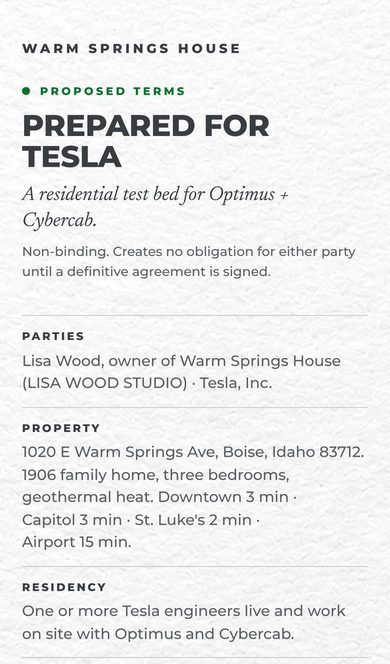
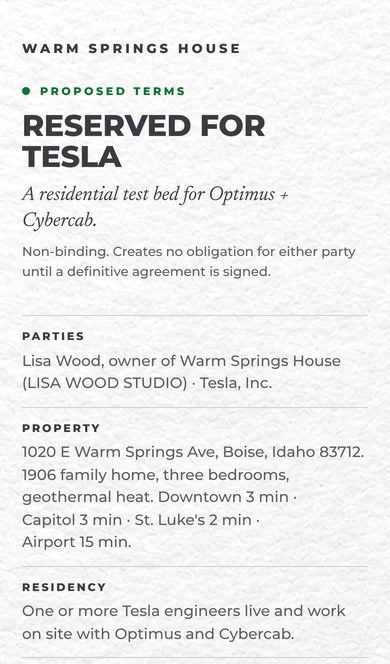
Send kit: walkthrough screens and DM section match the final email, DM and Reserved for Tesla
Claude-Session: https://claude.ai/code/session_018mjyHLtRipED1pdLKidqkG

Changed region(s): [[0.0923, 0.1506, 0.7077, 0.2108]]

diff --git a/send-kit/preview.html b/send-kit/preview.html
@@ -58,8 +58,8 @@ button.done{background:var(--ink);color:var(--paper);border-color:var(--ink)}
 .deck img{position:absolute;inset:0;width:100%;height:100%;object-fit:cover;object-position:top;animation:deck 12s infinite;opacity:0}
 .deck img:nth-child(2){animation-delay:3s}.deck img:nth-child(3){animation-delay:6s}.deck img:nth-child(4){animation-delay:9s}
 @keyframes deck{0%{opacity:0;transform:translateY(30%)}4%{opacity:1;transform:none}25%{opacity:1;transform:none}29%{opacity:0}100%{opacity:0}}
-.vid{height:100%;background:#000}
-.vid video{display:block;width:100%;height:100%;object-fit:cover}
+.phone .vid{height:100%;background:#000}
+.phone .vid video{display:block;width:100%;height:100%;object-fit:cover}
 .links{display:grid;gap:8px;background:var(--paper);border-radius:14px;box-shadow:var(--shadow);padding:16px 20px;font-size:14px}
 .links div{display:flex;flex-wrap:wrap;gap:4px 14px;justify-content:space-between}
 .links span{color:var(--muted)}
@@ -137,13 +137,13 @@ code{font-family:ui-monospace,Menlo,Consolas,monospace;font-size:13px;background
   <p class="note">Every screen below is the live site on a phone. Swipe sideways through each path.</p>
   <h3 class="jh">By email</h3>
   <ol class="journey" aria-label="The email path">
-      <li class="jstep"><figure class="phone"><div class="inbox"><div class="ibar">Inbox</div><div class="irow"><span class="idot"></span><div><div class="ifrom">Lisa Wood <span>9:02 AM</span></div><div class="isubj">[Subject]</div><div class="ipre">Hi [Name], I hope you're doing well…</div></div></div><div class="irow dim"><div><div class="ifrom">…</div><div class="isubj">&nbsp;</div></div></div></div></figure><div class="jcap"><span class="jn">1</span><b>It arrives</b><p>From Lisa Wood, lisa@lisawoodstudio.com. Your name, the subject and the first line are all they see before opening. No attachment, nothing hidden, no tracking.</p></div></li>
+      <li class="jstep"><figure class="phone"><div class="inbox"><div class="ibar">Inbox</div><div class="irow"><span class="idot"></span><div><div class="ifrom">Lisa Wood <span>9:02 AM</span></div><div class="isubj">An invitation for Optimus + Cybercab</div><div class="ipre">Hi [First name], I cannot overstate how excited I am…</div></div></div><div class="irow dim"><div><div class="ifrom">…</div><div class="isubj">&nbsp;</div></div></div></div></figure><div class="jcap"><span class="jn">1</span><b>It arrives</b><p>From Lisa Wood, lisa@lisawoodstudio.com. Your name, the subject and the first line are all they see before opening. No attachment, nothing hidden, no tracking.</p></div></li>
       <li class="jstep"><figure class="phone"><img src="preview-assets/j-email.jpg" width="390" height="664" alt="The email opened on a phone" loading="lazy"></figure><div class="jcap"><span class="jn">2</span><b>They open the email</b><p>A short note, then the card: the seal opens to Reserved for Tesla and loops (8 seconds). It plays inside the email.</p></div></li>
       <li class="jstep"><figure class="phone"><img src="preview-assets/j-drop.jpg" width="390" height="664" alt="Card 1 dropping in" loading="lazy"></figure><div class="jcap"><span class="jn">3</span><b>They tap the card</b><p>warmspringshouse.com/4tesla?card=1 opens. They have just watched the seal open, so the page skips it and Card 1 drops in.</p></div></li>
       <li class="jstep"><figure class="phone"><img src="preview-assets/j-card1.jpg" width="390" height="664" alt="Card 1 finished" loading="lazy"></figure><div class="jcap"><span class="jn">4</span><b>Card 1 plays</b><p>The house, Warm Springs House, then the words line by line. Full screen on a phone, a framed card on a computer.</p></div></li>
       <li class="jstep"><figure class="phone"><div class="deck"><img src="preview-assets/j-card2.jpg" width="390" height="693" alt="Card 2" loading="lazy"><img src="preview-assets/j-card3.jpg" width="390" height="693" alt="Card 3" loading="lazy"><img src="preview-assets/j-card4.jpg" width="390" height="693" alt="Card 4" loading="lazy"><img src="preview-assets/j-card5.jpg" width="390" height="693" alt="Card 5" loading="lazy"></div></figure><div class="jcap"><span class="jn">5</span><b>The cards move on by themselves</b><p>Each card plays once, holds long enough to read, then the next slides up over it, until they touch the screen. After that they swipe at their own pace.</p></div></li>
       <li class="jstep"><figure class="phone"><img src="preview-assets/j-card6.jpg" width="390" height="664" alt="Card 6, See It in Person" loading="lazy"></figure><div class="jcap"><span class="jn">6</span><b>Card 6: see it in person</b><p>Address, your phone, email and site, all tappable. Presented by Lisa Wood Studio links to your studio.</p></div></li>
-      <li class="jstep"><figure class="phone"><img src="preview-assets/j-terms.jpg" width="390" height="664" alt="The terms page" loading="lazy"></figure><div class="jcap"><span class="jn">7</span><b>The terms, if linked</b><p>A one-page web page at warmspringshouse.com/4tesla/terms, reached only from a link in your message. Out of search engines.</p></div></li>
+      <li class="jstep"><figure class="phone"><img src="preview-assets/j-terms.jpg" width="390" height="664" alt="The terms page" loading="lazy"></figure><div class="jcap"><span class="jn">7</span><b>The terms, only if you send them</b><p>Not linked in the email or the DMs. A one-page web page at warmspringshouse.com/4tesla/terms, ready if anyone asks. Out of search engines.</p></div></li>
   </ol>
   <h3 class="jh">By X or Instagram message</h3>
   <ol class="journey" aria-label="The message path">
@@ -164,7 +164,7 @@ code{font-family:ui-monospace,Menlo,Consolas,monospace;font-size:13px;background
   <article class="mail">
     <dl class="mhead">
       <dt>From</dt><dd>Lisa Wood &lt;lisa@lisawoodstudio.com&gt;</dd>
-      <dt>To</dt><dd>[Name]</dd>
+      <dt>To</dt><dd>[First name]</dd>
       <dt>Subject</dt><dd class="subj" id="subj">An invitation for Optimus + Cybercab</dd>
     </dl>
     <div class="mbody">
@@ -186,10 +186,10 @@ code{font-family:ui-monospace,Menlo,Consolas,monospace;font-size:13px;background
 
 <section class="sec" aria-labelledby="h-dm">
   <h2 id="h-dm">X and Instagram direct messages</h2>
-  <p class="note">Send the video first, then the note. The terms are a page on your site, so they go as a link. The invitation link shows the sealed-card preview.</p>
+  <p class="note">Send the video first, then the message. The link opens the invitation on the sealed card.</p>
   <div class="dms">
     <div class="phone" aria-label="X direct message">
-      <div class="ph-top"><b>[Name]</b><span>X</span></div>
+      <div class="ph-top"><b>[First name]</b><span>X</span></div>
       <div class="thread">
         <div class="vid"><video src="prepared-for-tesla.mp4" poster="preview.jpg" muted autoplay loop playsinline preload="metadata" aria-label="The 63-second invitation video"></video></div>
         <div class="msg" id="dm"><p>Hi [First name], Warm Springs House in Boise: the proving ground for the first autonomous corporate residence and entertainment hub. I am delighted to welcome Tesla.</p><p>warmspringshouse.com/4tesla</p><p>Lisa Wood</p></div>
@@ -197,7 +197,7 @@ code{font-family:ui-monospace,Menlo,Consolas,monospace;font-size:13px;background
       </div>
     </div>
     <div class="phone" aria-label="Instagram direct message">
-      <div class="ph-top"><b>[Name]</b><span>Instagram</span></div>
+      <div class="ph-top"><b>[First name]</b><span>Instagram</span></div>
       <div class="thread">
         <div class="vid"><video src="prepared-for-tesla.mp4" poster="preview.jpg" muted autoplay loop playsinline preload="metadata" aria-label="The 63-second invitation video"></video></div>
         <div class="msg"><p>Hi [First name], Warm Springs House in Boise: the proving ground for the first autonomous corporate residence and entertainment hub. I am delighted to welcome Tesla.</p><p>warmspringshouse.com/4tesla</p><p>Lisa Wood</p></div>
